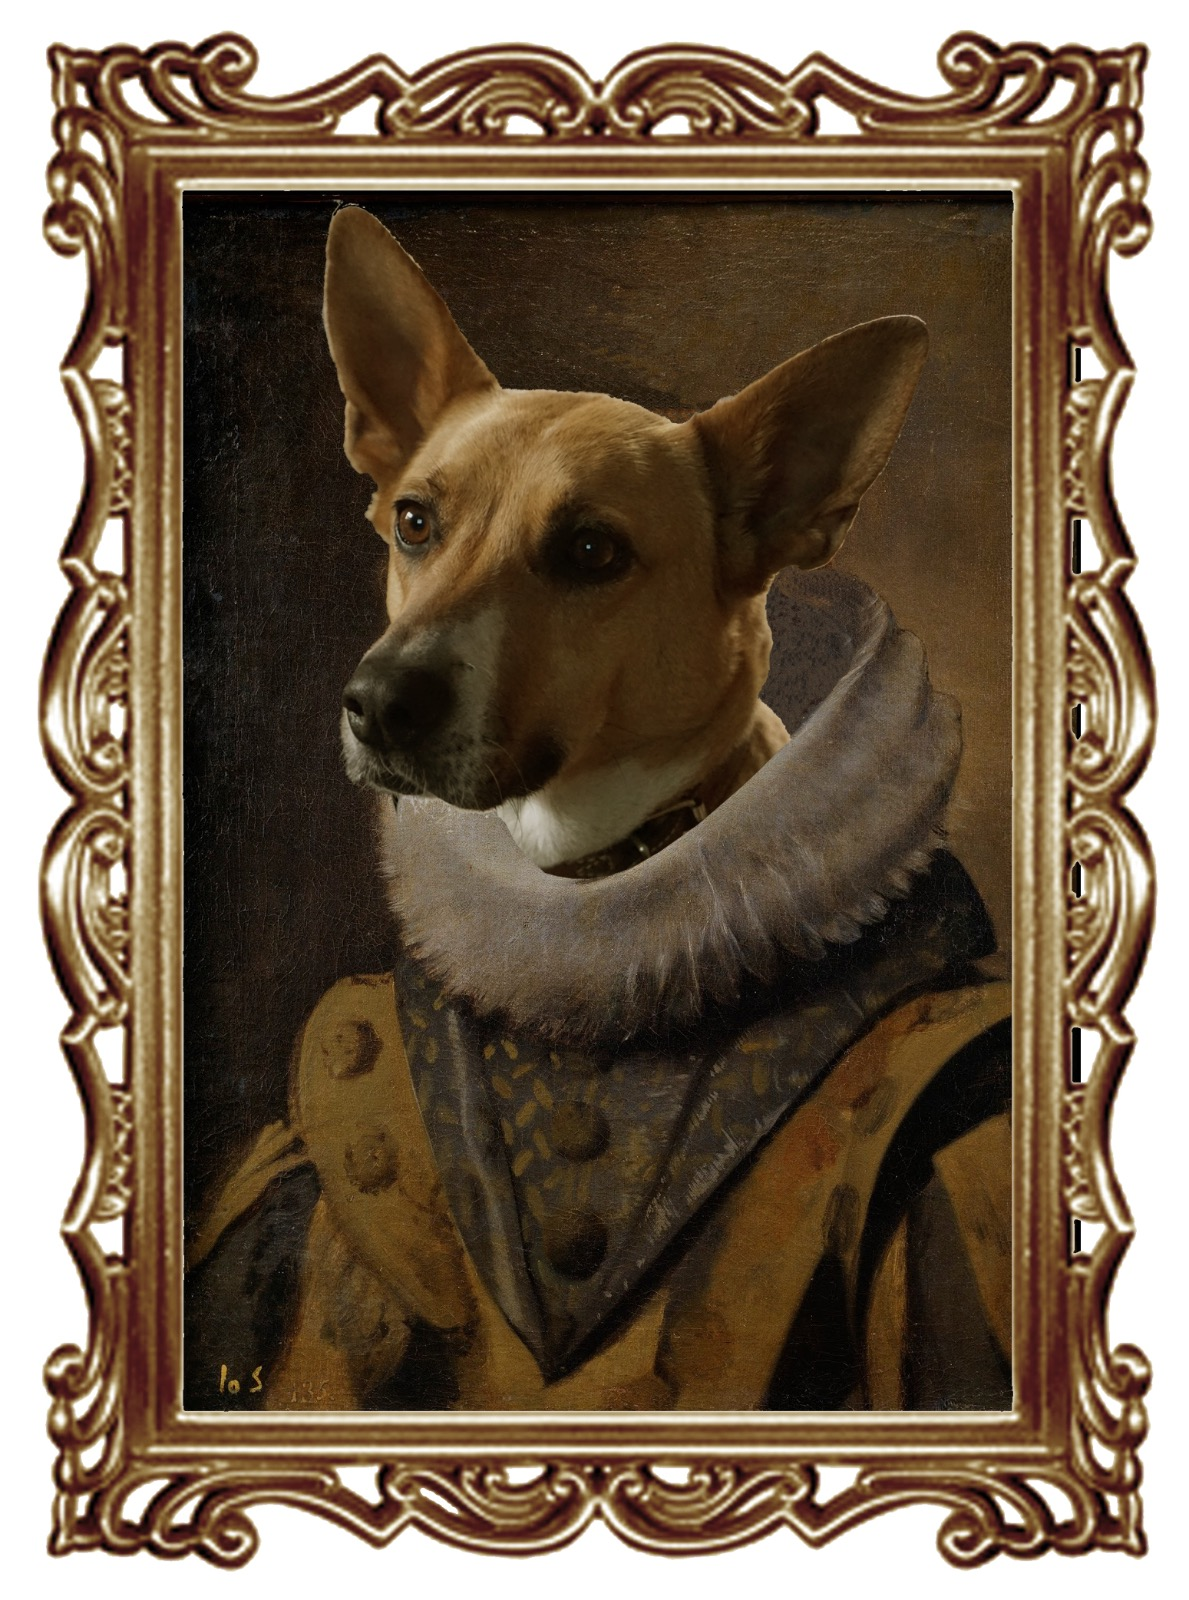
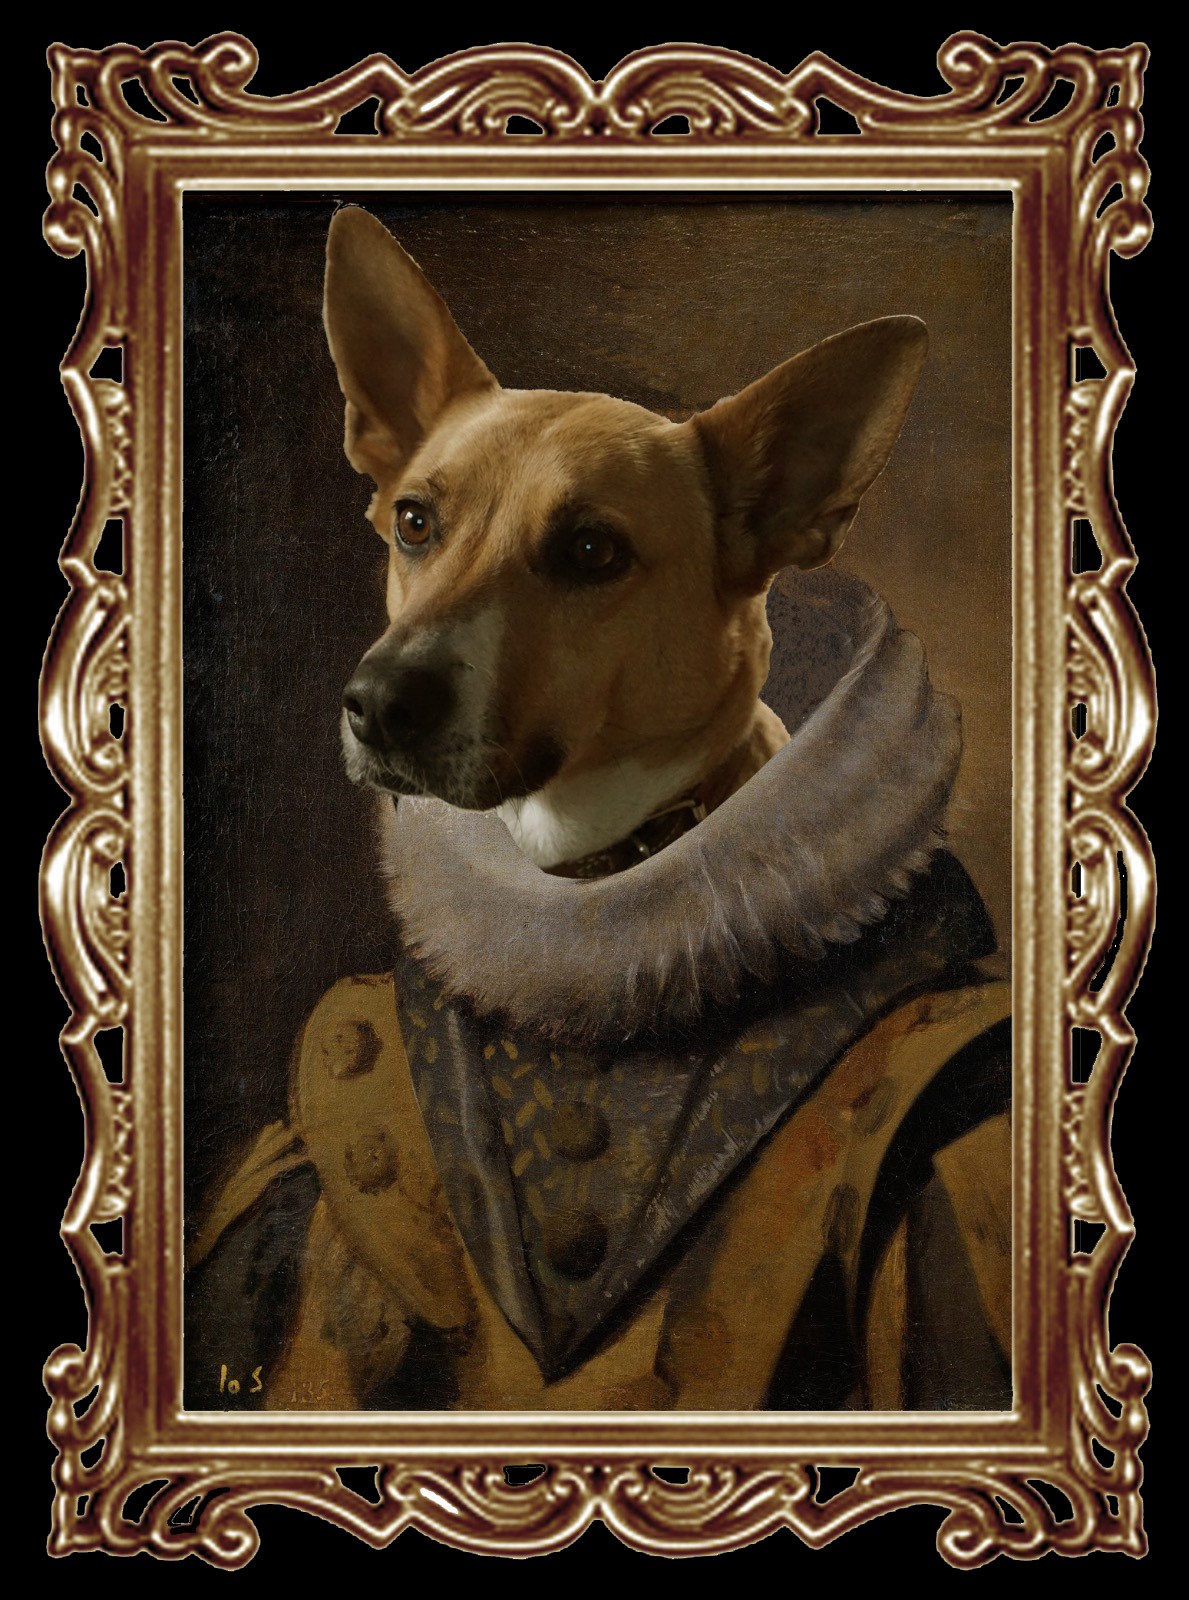
relative
rel

diff --git a/css/style.css b/css/style.css
@@ -1,7 +1,12 @@
 body {
   background-image: url("../img/kirawants.jpeg");
   background-repeat: no-repeat;
-  background-color: white;
+  background-color: black;
+  background-position: center; 
+  background-attachment: fixed;
+  background-size: 80%;
+
+
 }
 
 #pupilleft,
@@ -23,26 +28,26 @@ body {
 
 
 #dogpupilleft {
-  width: 18px;
-  height: 18px;
+  width: 10px;
+  height: 10px;
 }
 
 #dogeyeleft
 {
-  width: 30px;
-  height: 30px;  
-  left: 400px; 
-  top: 511px;
+  width: 20px;
+  height: 20px;  
+  left: 37%; 
+  top: 30%;
 }
 
 #dogpupilright{
-  width: 18px;
-  height: 18px;
+  width: 10px;
+  height: 10px;
 }
 
 #dogeyeright {
-  width: 30px;
-  height: 30px;
-  left: 580px;
-  top: 539px;
+  width: 20px;
+  height: 20px;
+  left: 48.6%;
+  top: 32%;
 }
